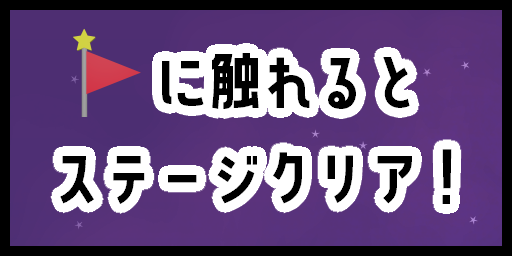
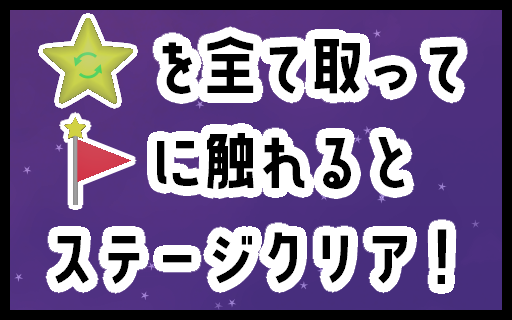
チュートリアルUIを差し替え

diff --git a/Header/Object/InGameUIManager/TutorialUI.cpp b/Header/Object/InGameUIManager/TutorialUI.cpp
@@ -127,22 +127,27 @@ void TutorialUI::ChangeTexture()
 	case TutorialUI::kMove:
 		tutorialUI_->SetTextureHaundle(TextureManager::Load("UI/TD2_3week_2/InGame/Tutorial/Tutorial_1.png"));
 		tutorialKeyUI_->SetTextureHaundle(TextureManager::Load("UI/TD2_3week_2/InGame/Tutorial/TutorialKey_1.png"));
+		scale_.y = 170.6f;
 		break;
 	case TutorialUI::kEnableSpin:
 		tutorialUI_->SetTextureHaundle(TextureManager::Load("UI/TD2_3week_2/InGame/Tutorial/Tutorial_2.png"));
 		tutorialKeyUI_->SetTextureHaundle(TextureManager::Load("UI/TD2_3week_2/InGame/Tutorial/TutorialKey_2.png"));
+		scale_.y = 170.6f;
 		break;
 	case TutorialUI::kSpin:
 		tutorialUI_->SetTextureHaundle(TextureManager::Load("UI/TD2_3week_2/InGame/Tutorial/Tutorial_3.png"));
 		tutorialKeyUI_->SetTextureHaundle(TextureManager::Load("UI/TD2_3week_2/InGame/Tutorial/TutorialKey_3.png"));
+		scale_.y = 170.6f;
 		break;
 	case TutorialUI::kDisableSpin:
 		tutorialUI_->SetTextureHaundle(TextureManager::Load("UI/TD2_3week_2/InGame/Tutorial/Tutorial_4.png"));
 		tutorialKeyUI_->SetTextureHaundle(TextureManager::Load("UI/TD2_3week_2/InGame/Tutorial/TutorialKey_4.png"));
+		scale_.y = 170.6f;
 		break;
 	case TutorialUI::kGoal:
 		tutorialUI_->SetTextureHaundle(TextureManager::Load("UI/TD2_3week_2/InGame/Tutorial/Tutorial_5.png"));
 		tutorialKeyUI_->SetTextureHaundle(TextureManager::Load("UI/TD2_3week_2/InGame/Tutorial/TutorialKey_5.png"));
+		scale_.y = 213.3f;
 		break;
 	}
 }

diff --git a/Header/Object/InGameUIManager/TutorialUI.h b/Header/Object/InGameUIManager/TutorialUI.h
@@ -122,7 +122,7 @@ public: // パブリックなメンバ変数
 	// 位置座標
 	Vector2 position_ = { 640.0f, -80.0f };
 	// 大きさ
-	Vector2 scale_ = { 320.0f, 160.0f };
+	Vector2 scale_ = { 341.3f, 170.6f };
 	// 中心点
 	Vector2 anchorPoint_ = { 0.5f, 0.5f };
 
@@ -159,7 +159,7 @@ private: // メンバ変数
 
 	// チュートリアル進捗
 	int progress_ = kMove; // 現在の
-	int prevProgress_ = 999; // 前の
+	int prevProgress_ = kDisableSpin; // 前の
 
 	// コントローラーか
 	bool isController_ = false;
